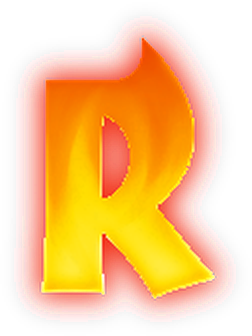
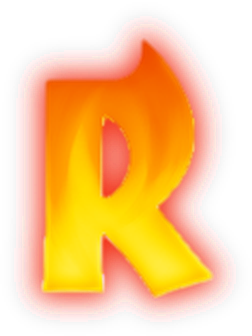
Ember Knights: clean edges on the EMBER letters
Each EMBER letter was cut on a hard threshold of the logo's soft edge, so
its edge came out stair-stepped. Its face now eases into its re-cast glow
over about a pixel (recast_shadow "soft_face", "soft_face_slope").

Claude-Session: https://claude.ai/code/session_01LaEujtb3z1MqfzPFRg1ETE

diff --git a/tools/logo_letters.py b/tools/logo_letters.py
@@ -199,8 +199,9 @@ so Godot never imports the source), is JSON:
                   "silhouette": true scales letters with a clean edge;
                   "keep_small_holes": px keeps dark marks inside a letter;
                   "recast_shadow": {"spread", "dx", "dy", "blur", "alpha",
-                  "colour"} draws the logo's shadow again from each letter's
-                  own shape (measured off the logo);
+                  "colour", "soft_face"} draws the logo's shadow again from each
+                  letter's own shape (measured off the logo); "soft_face": sigma
+                  eases the face into it instead of a hard step;
                   "own_by_shadow": {"dx", "dy", "grow"} gives a drop shadow to
                   the letter casting it, not the nearest one;
                   "smooth_scale": true scales the cut as it is, smoothly
@@ -1013,7 +1014,17 @@ def cut(cfg_path: Path, preview: Path | None = None) -> list[Path]:
                 m_ = nd.distance_transform_edt(~keep) <= rc["spread"]
                 sh_ = nd.gaussian_filter(nd.shift(m_.astype(float), (rc["dy"], rc["dx"]), order=0),
                                          rc.get("blur", 2)) * rc.get("alpha", 160) / 255
-                sh_ = np.where(keep, 0, sh_)
+                if rc.get("soft_face"):
+                    # The face's edge eased into its glow over about a pixel
+                    # (Ember Knights), as the logo draws it, rather than cut
+                    # off on a hard step: the face's colours run out past its
+                    # edge, and its own alpha is the blurred shape of it.
+                    _, (fy_, fx_) = nd.distance_transform_edt(~keep, return_indices=True)
+                    rgb = A[fy_, fx_, :3].astype(float)
+                    al = np.clip((nd.gaussian_filter(keep.astype(float), rc["soft_face"]) - 0.5)
+                                 * rc.get("soft_face_slope", 2.0) + 0.5, 0, 1)
+                else:
+                    sh_ = np.where(keep, 0, sh_)
                 out_a_ = al + sh_ * (1 - al)
                 rgb = (rgb * al[..., None] + np.array(rc.get("colour", [0, 0, 0]), float) * (sh_ * (1 - al))[..., None]) \
                     / np.maximum(out_a_, 1e-6)[..., None]

diff --git a/docs/content-authoring.md b/docs/content-authoring.md
@@ -162,7 +162,9 @@ gives E M B E R (the second E as `__2`) and K N I G H T S, two configs at 2x
 (`smooth_scale`, the source 500px wide). EMBER's orange glow runs from letter
 to letter and down onto KNIGHTS, so each letter is cut solid and its glow drawn
 again round its own shape (`recast_shadow`: spread 3, blur 7, (243, 45, 19),
-fitted to the logo's glow falling from about 200 to 10 over 14px); its flames
+fitted to the logo's glow falling from about 200 to 10 over 14px), the face
+eased into it over about a pixel (`soft_face` 1.3, `soft_face_slope` 1.6) where a
+hard cut at the logo's soft edge left every edge stair-stepped; its flames
 reach far above the letters, so each is sized by its body (`body` rows 86-183)
 and the flame hangs over the line. KNIGHTS is cut plain; the warm gold on its
 edges is its own rim, not EMBER's glow. Spelunky Classic gives S P E L U N K Y (the first K): its
